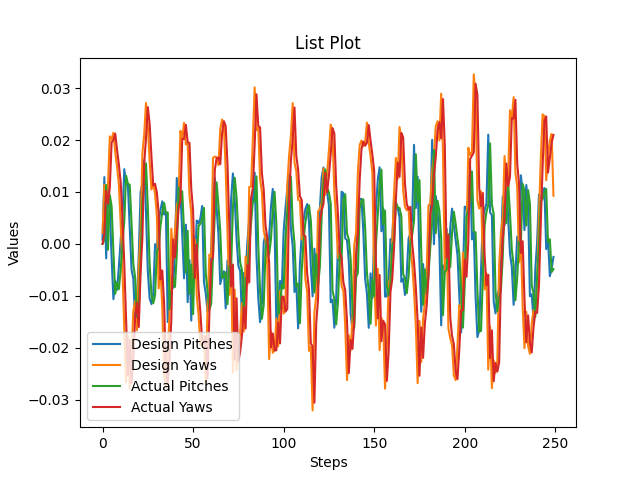
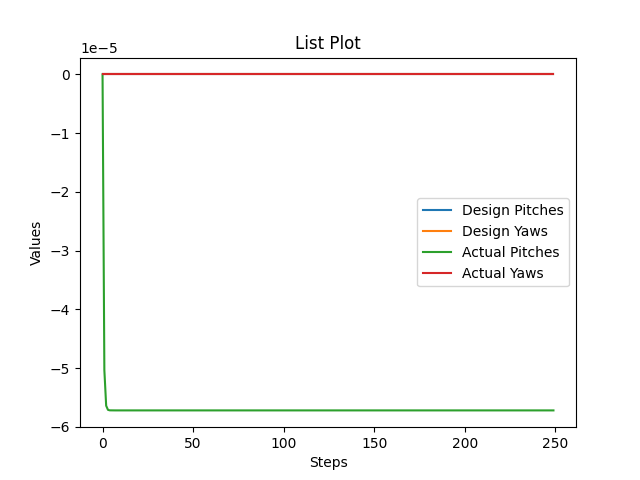
Add the mujoco env with a moving trunk (ribcage), disable all collisions since no need to interact with the environment.

diff --git a/huc/envs/mobile_reading/MobileRead.py b/huc/envs/mobile_reading/MobileRead.py
@@ -616,8 +616,8 @@ class MobileRead(Env):
             self._data.qpos[self._eye_joint_y_mjidx] = 0
 
             if params is None:
-                self._perturbation_amp_tuning_factor = 0.2
-                self._perturbation_amp_noise_scale = 0.005
+                self._perturbation_amp_tuning_factor = 0
+                self._perturbation_amp_noise_scale = 0
                 self._dwell_steps = int(0.5 * self._action_sample_freq)
                 print(f"The pert amp tuning factor was: {self._perturbation_amp_tuning_factor}, "
                       f"the pert amp noise factor is; {self._perturbation_amp_noise_scale}, "
